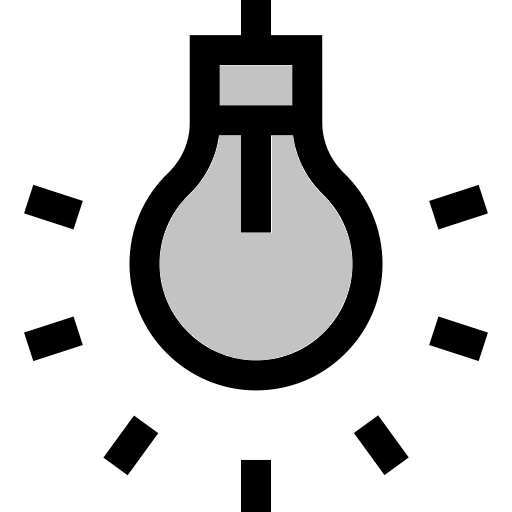
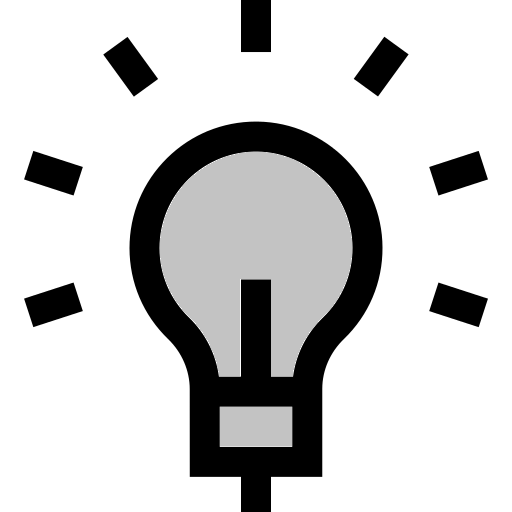
add light ui alway face camera + dowscal if too close from camera

diff --git a/Core/src/rendering/light_culler.cpp b/Core/src/rendering/light_culler.cpp
@@ -13,10 +13,10 @@ void LightCuller::InitResources()
 	m_DirLightTexture = ResourceManager::Get<Texture>("assets_internal/editor/dirlight_icon.png");
 	m_PointLightTexture = ResourceManager::Get<Texture>("assets_internal/editor/point_light.png");
 	m_SpotLightTexture = ResourceManager::Get<Texture>("assets_internal/editor/spot_light.png");
-	m_editorUI = ResourceManager::Get<Shader>("editorui_shader");
-	m_editorUI->SetBlendFunction({true,BlendValue::SRC_ALPHA,BlendValue::ONE_MINUS_SRC_ALPHA});
-	m_editorUI->CreateInRhi();
-	m_editorUI->SetInt("uiTexture",0);
+	m_EditorUi = ResourceManager::Get<Shader>("editorui_shader");
+	m_EditorUi->SetBlendFunction({true,BlendValue::SRC_ALPHA,BlendValue::ONE_MINUS_SRC_ALPHA});
+	m_EditorUi->CreateInRhi();
+	m_EditorUi->SetInt("uiTexture",0);
 	m_Quad = ResourceManager::Get<Model>("assets/models/quad.obj");
 	
 }
@@ -133,14 +133,23 @@ void LightCuller::DrawLightGizmo(const std::vector<const PointLight*>& pointLigh
 		sortedLight.emplace(distance, gizmoLight);
 	}
 	
-	m_editorUI->Use();
+	m_EditorUi->Use();
 	// ReSharper disable once CppDiscardedPostfixOperatorResult
-	for ([[maybe_unused]] std::map<float_t,GizmoLight>::reverse_iterator it = sortedLight.rbegin(); it != sortedLight.rend(); it++)
+	for (std::map<float_t,GizmoLight>::reverse_iterator it = sortedLight.rbegin(); it != sortedLight.rend(); it++)
 	{
-		float_t scaleFactor = 0.2f;
 		ModelUniformData modelData;
-		modelData.model = mat4::Trs(it->second.pos,Quaternion::Identity(),vec3(scaleFactor));
-		modelData.normalInvertMatrix = mat4::Identity();
+		float_t scaleScalar = m_ScaleFactor;
+		
+		float_t distance = (it->second.pos - camera.pos).SquaredLength();
+		if(distance < m_MinDistance * m_MinDistance)
+		{
+			scaleScalar = scaleScalar * (1.f/distance) * (1.f/distance);
+		}
+		
+		scaleScalar = std::clamp(scaleScalar,m_MaxScalarFactor,m_MinScalarFactor);
+		Matrix scale = Matrix::Scaling(Vector3(scaleScalar));
+		modelData.model = (scale * Matrix::LookAt(it->second.pos,camera.pos,Vector3::UnitY())).Inverted();
+		modelData.normalInvertMatrix = Matrix::Identity();
 
 		switch (it->second.type)
 		{
@@ -161,5 +170,5 @@ void LightCuller::DrawLightGizmo(const std::vector<const PointLight*>& pointLigh
 		Rhi::DrawModel(m_Quad->GetId());
 
 	}
-	m_editorUI->Unuse();
+	m_EditorUi->Unuse();
 }

diff --git a/Core/src/rendering/rhi.cpp b/Core/src/rendering/rhi.cpp
@@ -290,7 +290,7 @@ uint32_t Rhi::GetBlendValueOpengl(BlendValue blendFunction)
 		case BlendValue::ONE_MINUS_CONSTANT_ALPHA:
 			return GL_ONE_MINUS_CONSTANT_ALPHA;
 
-		default:
+		default:  // NOLINT(clang-diagnostic-covered-switch-default)
 			return GL_ONE; 
 	}
 }
@@ -526,12 +526,11 @@ void Rhi::ReadAttachement(
 	const int32_t x,
 	const int32_t y,
 	const TextureFormat textureFormat,
-	const TextureInternalFormat textureInternalFormat,
+	const TextureInternalFormat ,
 	void* output
 )
 {
 	const GLenum format = GetOpenGlTextureFormat(textureFormat);
-	const GLenum internalFormat = GetOpenglInternalFormat(textureInternalFormat);
 	
 	glReadBuffer(GL_COLOR_ATTACHMENT0 + static_cast<GLint>(attachmentIndex)); 
 	glReadPixels(x, y, 1, 1, format, GL_UNSIGNED_BYTE, output);

diff --git a/Core/include/rendering/light_culler.hpp b/Core/include/rendering/light_culler.hpp
@@ -50,8 +50,13 @@ private:
     Pointer<Texture> m_DirLightTexture;
     Pointer<Texture> m_SpotLightTexture;
 
-    Pointer<Shader> m_editorUI;
+    Pointer<Shader> m_EditorUi;
     Pointer<Model> m_Quad;
+
+    float_t m_ScaleFactor = 2.f;
+    float_t m_MinDistance = 1.f;
+    float_t m_MinScalarFactor = 10.f;
+    float_t m_MaxScalarFactor = m_ScaleFactor;
 
 };
 

diff --git a/Core/include/rendering/skybox_renderer.hpp b/Core/include/rendering/skybox_renderer.hpp
@@ -1,7 +1,6 @@
 #pragma once
 
 #include "core.hpp"
-#include "resource/cubemap.hpp"
 #include "resource/model.hpp"
 #include "resource/shader.hpp"
 #include "utils/pointer.hpp"
